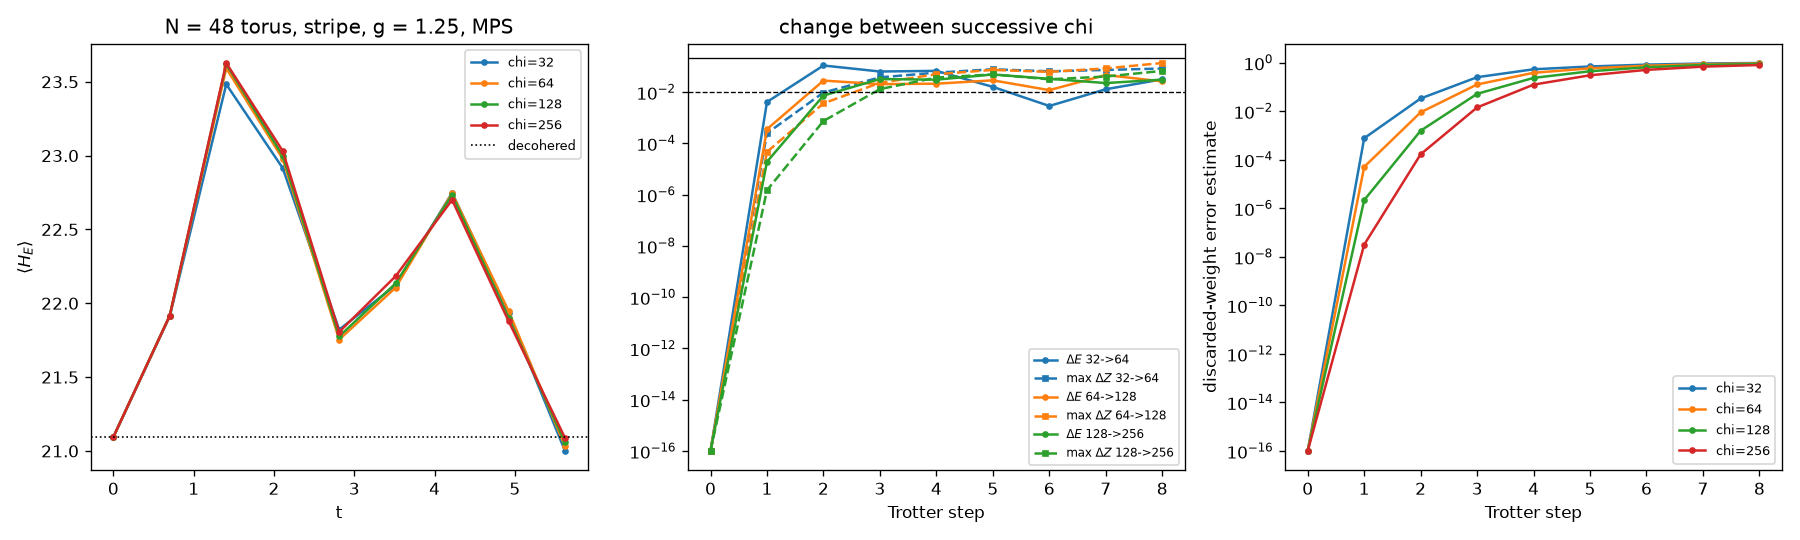
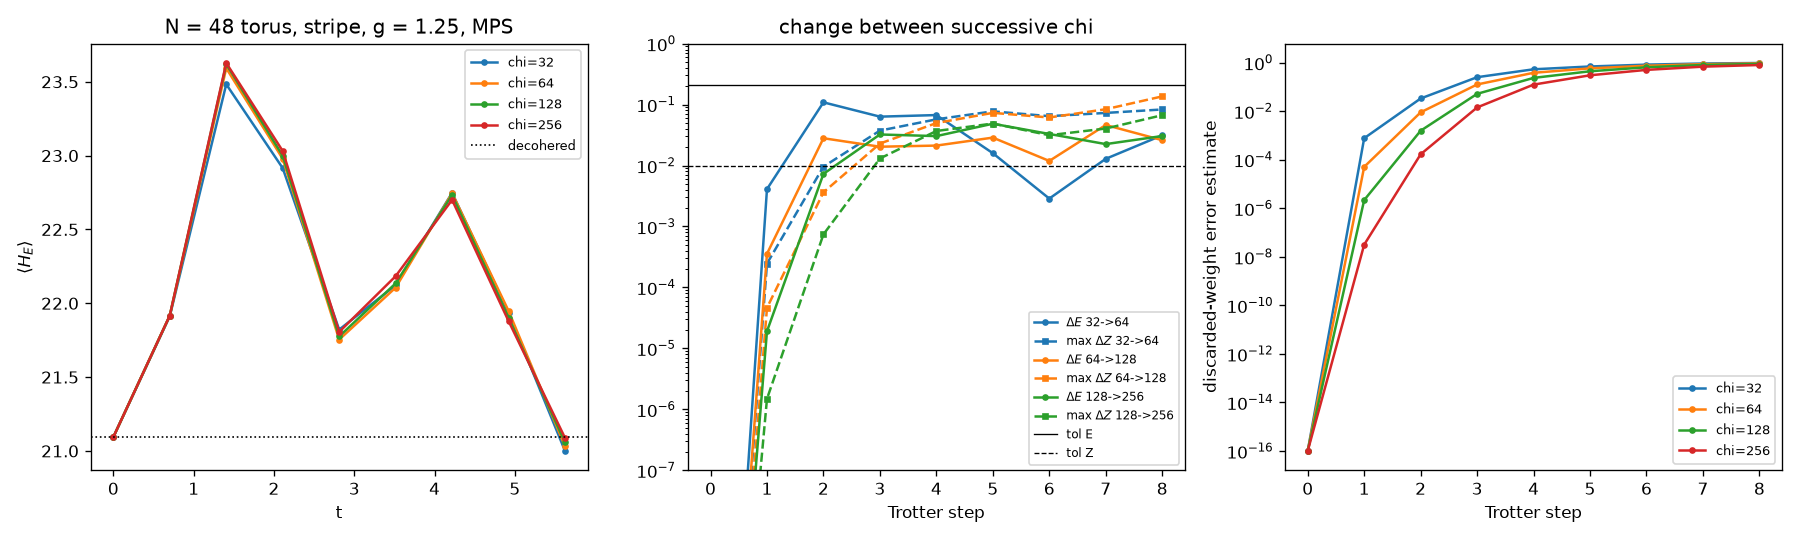
m6: audit fixes (headline qualification, cumulative error, energy-insensitivity reason, Trotter-step caveat), figure/README/requirements fixes
Claude-Session: https://claude.ai/code/session_01WNRUSz9Srb79BhE5qqbAtg

diff --git a/scripts/make_figures.py b/scripts/make_figures.py
@@ -111,8 +111,9 @@ def fig4():
                                           1e-16), "o-", ms=3, label=rf"$\Delta E$ {a}->{b}")
         axs[1].semilogy(steps, np.maximum([s["d_z_max"][i] for s in conv["steps"]], 1e-16),
                         "s--", ms=3, color=f"C{i}", label=rf"max $\Delta Z$ {a}->{b}")
-    axs[1].axhline(conv["tol_electric_energy"], color="k", ls="-", lw=0.8)
-    axs[1].axhline(conv["tol_z"], color="k", ls="--", lw=0.8)
+    axs[1].axhline(conv["tol_electric_energy"], color="k", ls="-", lw=0.8, label="tol E")
+    axs[1].axhline(conv["tol_z"], color="k", ls="--", lw=0.8, label="tol Z")
+    axs[1].set_ylim(1e-7, 1)
     axs[1].set_xlabel("Trotter step"); axs[1].set_title("change between successive chi")
     axs[1].legend(fontsize=7)
     axs[2].set_xlabel("Trotter step"); axs[2].set_ylabel("discarded-weight error estimate")
@@ -124,13 +125,13 @@ def fig4():
 
 def fig5():
     items = load("results/m6/roadmap.json")["items"]
-    fig, ax = plt.subplots(figsize=(12, 1.2 + 1.3 * len(items)))
+    fig, ax = plt.subplots(figsize=(13, 1.2 + 1.6 * len(items)))
     ax.axis("off")
     for k, it in enumerate(items):
         y = 1 - (k + 0.5) / len(items)
-        ax.text(0.0, y, it["title"], fontsize=11, weight="bold", va="center")
+        ax.text(0.0, y, "\n".join(textwrap.wrap(it["title"], 30)), fontsize=10, weight="bold", va="center")
         ax.text(0.27, y, "N = " + ", ".join(map(str, it["N"])), fontsize=10, va="center")
-        ax.text(0.40, y, "\n".join(textwrap.wrap(it["purpose"], 85)), fontsize=8.5, va="center")
+        ax.text(0.40, y, "\n".join(textwrap.wrap(it["purpose"], 75)), fontsize=8, va="center")
     ax.set_title("What remains for the GPU cluster and for hardware", fontsize=13)
     fig.tight_layout()
     fig.savefig(OUT / "fig5_cluster_roadmap.png", dpi=120)

diff --git a/reports/audits/m6_audit.md b/reports/audits/m6_audit.md
@@ -1,0 +1,74 @@
+# M6 gate audit (final cloud milestone, before tag `v0.1-pre-cluster`)
+
+Reviewer: independent `reviewer` subagent. I did not modify any implementation file.
+
+## Verdict: PASS-WITH-FIXES
+
+The data, the scripts and the tests are sound. Three statements in `reports/collaborator_summary.md` are not supported by the data, or leave out a caveat that changes the team decision. All three need text edits only, with no reruns. Fix them before the tag.
+
+## Checks run
+| check | result |
+|---|---|
+| `python3 -m pytest -q` | 167 passed (exit 0) |
+| `python3 tools/check_lock.py` | LOCK OK |
+| `scripts/check_summary.py` | 20 markers, 0 failures |
+| `scripts/analyze_convergence.py --out <scratch>` | byte-identical to `results/m6/convergence.json` |
+| $\delta t$ | $2\cdot0.703125/1.25^2=0.900$ ✓ (PLAN M6) |
+| decohered $H_E$ | $\tfrac{3g^2}{16}\cdot\tfrac{3N}{2}=21.094$; stripe step 0 = 21.094 ✓ ($\beta=0$) |
+| gate count | 456 = 9.5·48 ✓ |
+| ZNE improvement (M4 JSON) | 10.14, 15.48, 6.78, 5.80 → "5.8–15.5×" ✓ |
+| per-run cap | the χ=256 run took 6935 s < 7200 s ✓ (only just) |
+| prior audit B1–B3 (`reports/m3_physics.md`) | B1 fixed (:54–62, full table and coupling-dependent wording); B2 fixed (:66, 77/41/27%, N=24 42%); B3 fixed (:51, :63, ±0.04 in β, ±0.2 in $H_E$). Residual in `project_report.md`, see N10. |
+
+### Convergence data (χ=128→256 pair; recomputed from `n48_stripe_g1.25.json`)
+| step | t | max\|ΔZ\| | mean\|ΔZ\| | #plaq >0.01 | ΔE | χ=256 1−F (cumulative) | retained fraction this step F_k/F_{k−1} |
+|---|---|---|---|---|---|---|---|
+| 2 | 1.41 | 0.0007 | 0.0002 | 0 | 0.007 | 0.0002 | 0.9998 |
+| 3 | 2.11 | 0.013 | 0.004 | 4/48 | 0.032 | 0.014 | 0.986 |
+| 4 | 2.81 | 0.037 | 0.015 | 32/48 | 0.030 | 0.124 | 0.889 |
+| 5 | 3.52 | 0.049 | 0.017 | 35/48 | 0.049 | 0.300 | 0.799 |
+| 6 | 4.22 | 0.031 | 0.013 | 31/48 | 0.033 | 0.501 | 0.713 |
+| 8 | 5.63 | 0.067 | 0.015 | 33/48 | 0.030 | 0.795 | 0.640 |
+
+How max|ΔZ| at step 3 changes as χ doubles: 0.037 → 0.023 → 0.013, roughly halving each time. A χ=512 run would probably converge at step 3. At step 4 it goes 0.057 → 0.050 → 0.037, so convergence is slow. The ⟨H_E⟩ criterion is met at **all 8 steps for all pairs** (`last_converged_step_electric_energy = [8,8,8]`).
+
+**Is "MPS fails after 2–3 steps at χ ≤ 256" justified?** Yes, with a qualification. The claim rests on the chi-to-chi comparison of local $Z_p$, not on the cumulative error estimate, so the cumulative nature of the estimate does not bias it. Requiring agreement at all steps up to K (the prefix rule) is the right choice, because truncation errors propagate forward. The per-step retained fraction gives an independent confirmation: it drops below 0.99 at step 3 and to about 0.64 per step by steps 7–8, so the onset is real. The precise statement is: converged through step 2 ($t=1.41$), marginal at step 3 (4 of 48 plaquettes exceed the tolerance, by at most 0.003), and clearly unconverged from step 4.
+
+## BLOCKING findings (text-only fixes)
+
+**B1 `reports/collaborator_summary.md:67`: the explanation of why the energy is insensitive is wrong.** The summary says "⟨H_E⟩ stays near the decohered value (≈21.09), because this state starts at β=0". In the data, ⟨H_E⟩ swings from 21.0 to 23.63, up to 12% away from 21.09, while the χ=128/256 difference never exceeds 0.049. Truncation does not pull ⟨H_E⟩ toward the β=0 value. The real reason is that ⟨H_E⟩ is a sum over 72 bonds, so its tolerance of 0.211 amounts to a *mean* per-bond tolerance of about 0.01, whereas the $Z_p$ test is a *maximum* over 48 sites. Mean |ΔZ| for 128→256 also stays ≤ 0.017. Fix: "⟨H_E⟩ agrees between successive χ to within the 1% tolerance at all 8 steps (max difference 0.049), even though it swings by up to 2.5 around 21.09. It is a sum over 72 bonds, so local errors average out. The maximum over the 48 local magnetizations is the sensitive probe." Also state the fact `last_converged_step_electric_energy = [8,8,8]` with a marker.
+
+**B2 `reports/collaborator_summary.md:66`: the cumulative error estimate is over-read.** "error estimate 0.79, so most of the state's weight has been truncated away" presents the estimate as a direct measure of accuracy. It is actually $1-\prod_i(1-w_i)$ over every truncation since $t=0$ (`su2torus/mps.py:146`, quimb `fidelity_estimate`), i.e. a heuristic *global* infidelity. For 48 qubits, global fidelity falls roughly exponentially with N even when local observables are still accurate. Fix: "By step 8 the estimated overlap of the χ=256 state with the untruncated Trotter state is 0.21. This estimate is cumulative; per step, the fraction of weight kept falls from 0.986 (step 3) to about 0.64 (steps 7–8). Local observables degrade more slowly (mean |ΔZ| ≈ 0.015), but they are not converged." Also replace "fails after 2–3 Trotter steps" (:69) with "is converged through step 2, marginal at step 3, and unconverged from step 4. The step-3 differences halve with each doubling of χ, so χ≈512 may recover step 3."
+
+**B3 `reports/collaborator_summary.md:79,82` (§7 item 4 and the "Decision"): the Trotter step size is not taken into account.** At $2\delta t/g^2=0.9$ the first-order circuit is a coarse periodic (Floquet) drive. It does not conserve $H$, so a thermal anchor of $H$ at $\beta\approx1.44$ (the QMC item) is not the late-time reference *for this circuit*. Independent check in this audit (`split_sparse` + `expm_multiply`, $g=1.25$, $\delta t=0.703$, vacuum, steps 1–10):
+- N=12: Trotter ⟨H_E⟩/E_∞ against exact: step 2 0.92 vs 0.75, step 3 0.56 vs 0.38, step 8 0.54 vs 0.31. The drift of ⟨H⟩ is +0.7 to +3.1 (E_∞ = 5.27).
+- N=16: the same pattern (step 8: 0.54 vs 0.32).
+- The stripe ($\beta=0$) is barely affected.
+
+The recommended vacuum target is therefore strongly affected by Trotter error at this δt. Fix: add to §8 and to roadmap item 4: "At $2\delta t/g^2=0.9$ the circuit deviates strongly from continuous-time dynamics from the vacuum (N=12: up to 23% of the decohered ⟨H_E⟩). A thermal anchor of $H$ applies only at smaller δt or second order. For the coarse circuit, the classical reference must simulate the same circuit (MPS/PEPS/Pauli propagation). Decide the δt for the physics comparison before QMC time is spent."
+
+## NON-BLOCKING findings
+
+- **N1 `collaborator_summary.md:68`**: "6935 s on 4 cloud vCPUs". The runs used `OPENBLAS_NUM_THREADS=1` and overlapped the M3 numba batch (the M6 log runs 04:22–06:43 and `logs/m3.log` ends at 05:28). Timings are therefore single-threaded with contention, not a clean benchmark. Say so, because it affects the χ=512+ extrapolation (the observed ratios 3.5/4.5/5.8× per doubling are approaching χ³ = 8×).
+- **N2 `collaborator_summary.md:55`**: "With mitigation, 4–6 steps at N = 48–64 are realistic". The raw F at N=64, 6 steps, $p_2=10^{-3}$ is $e^{-3.65}=0.026$, and at N=48, 4 steps it is 0.161. ZNE was validated only down to F≈0.33 at N=12 (M4). State the validated range, or write "plausible, untested below F≈0.33".
+- **N3 `collaborator_summary.md:28`**: "relaxes toward a thermal state" omits the fact (from `m3_physics.md:62`) that at N=24 the late-time mean is still 13%±4% below the anchor and fig. 1 shows undamped oscillations to $t=4g^2$. Add one clause.
+- **N4 unmarked data numbers**: 1140 (:38, `noise_runs.json configs/steps=10/n_2q`), ≈21.09 (:67, `convergence.json steps/0/electric_energy/0`), 0.703 (:62, `config/dt`), and the derived values 5.8–15.5× (:48), ±0.04 (:28, from an audit re-run not stored in any JSON) and 2.3× (:86). Add markers where possible. Store the typicality spread in `results/m3/summary.json` or cite its source.
+- **N5 fig 4 (`scripts/make_figures.py:110-118`)**: the tolerance lines (:114–115) have no legend entries. Add `label="tol E (1%)"` and `label="tol Z (0.01)"`. Step-0 zeros are floored to 1e-16, which squeezes the informative range 1e-4…1 into the top quarter of the plot: use `set_ylim(1e-5, 1)` or start at step 1. Change the right panel's ylabel to "cumulative 1 − fidelity estimate".
+- **N6 fig 3**: the N=96/p₂=10⁻³ and N=64/p₂=1.5×10⁻³ curves coincide exactly (same $p_2N$), which hides the green dotted line. Mention this in the caption.
+- **N7 fig 5**: the bold titles "PEPS with belief-propagation gauging" and "Pauli propagation of local observables" overlap the "N = …" column. Move the column right (x ≈ 0.31) or wrap the titles.
+- **N8 README reproducibility**:
+  - (a) `logs/` is git-ignored, so on a fresh clone `nohup scripts/run_m3_batch.sh > logs/m3.log` (README:27) fails. Add `mkdir -p logs`.
+  - (b) `numba` is missing from `requirements.txt`, although the M3 N=24 timing (~4 h) depends on it (the fallback in `hamiltonian.py:19-22` is silent).
+  - (c) No versions are pinned. The tested set is qiskit 2.5.2, qiskit-aer 0.17.2, quimb 1.15.0, numba 0.68.0. Pin them or list them.
+  - (d) README:31 should note that the ~2.3 h is the total over four χ runs and that χ=256 alone is ~1.9 h.
+- **N9 fig 1**: correct and readable. At N=24 the stripe and Néel-half thermal lines are hidden under the decohered line ($\beta=0$). Say so in the caption.
+- **N10 `reports/project_report.md`** (linked from README:5 as the "Full report") is stale:
+  - :249 says "runs finished so far … pending";
+  - :688 says the typicality uncertainty is "not quantified";
+  - :700 says "Running now";
+  - :253 and :478 quote β = 1.44008 / 1.440075 with no error bar (residual of the previous B3).
+
+  Either update it or mark it as a historical build log in the README.
+
+## Data-to-claim check (summary §3–§7)
+All 20 marked numbers match the JSON. Fig. 2 and the ZNE ranges match. The claim "global-fidelity rescaling over-corrects" is supported (echo-rescaled error > raw error in all four configurations). The stoquasticity claim is correct, since off-diagonal elements are $-\tfrac1{g^2}\prod c\le0$. Figures (i)–(v) are referenced, and their data files exist.

diff --git a/reports/collaborator_summary.md b/reports/collaborator_summary.md
@@ -52,7 +52,7 @@ ZNE reduces the error 5.8–15.5× in all four configurations. Rescaling by the 
 
 Figure (iii): estimated raw circuit fidelity $e^{-p_2N_{2q}}$ versus number of first-order steps, for N = 48, 56, 64, 96 and $p_2\in\{7.9\times10^{-4},10^{-3},1.5\times10^{-3}\}$. Data: `results/m5/resources.json`.
 
-At N = 48 a first-order step needs <!--num:results/m5/resources.json#tori/N=48/per_step/native_zz-->456 native-$ZZ$ two-qubit gates. With $p_2=10^{-3}$ the raw fidelity is <!--num:results/m5/resources.json#rows/N=48,steps=4,gate_set=native_zz,p2=0.001/raw_fidelity-->0.161 after 4 steps and <!--num:results/m5/resources.json#rows/N=48,steps=10,gate_set=native_zz,p2=0.001/raw_fidelity-->0.0105 after 10. With mitigation, 4–6 steps at N = 48–64 are realistic on hardware with $p_2\lesssim10^{-3}$. N = 96 at 10 steps is not (raw fidelity <!--num:results/m5/resources.json#rows/N=96,steps=10,gate_set=native_zz,p2=0.0015/raw_fidelity-->1.15e-6 at $p_2=1.5\times10^{-3}$).
+At N = 48 a first-order step needs <!--num:results/m5/resources.json#tori/N=48/per_step/native_zz-->456 native-$ZZ$ two-qubit gates. With $p_2=10^{-3}$ the raw fidelity is <!--num:results/m5/resources.json#rows/N=48,steps=4,gate_set=native_zz,p2=0.001/raw_fidelity-->0.161 after 4 steps and <!--num:results/m5/resources.json#rows/N=48,steps=10,gate_set=native_zz,p2=0.001/raw_fidelity-->0.0105 after 10. ZNE was validated here down to $F\approx0.33$; that makes about 4 steps at N = 48 ($F\approx0.16$–$0.24$ raw) a plausible but not yet validated hardware target with $p_2\lesssim10^{-3}$. N = 96 at 10 steps is not (raw fidelity <!--num:results/m5/resources.json#rows/N=96,steps=10,gate_set=native_zz,p2=0.0015/raw_fidelity-->1.15e-6 at $p_2=1.5\times10^{-3}$).
 
 The MPS code reproduces the exact Trotter state at N = 24 with bond dimension 256 to fidelity <!--num:results/m5/mps_check.json#runs/N=24/fidelity-->0.999999999 (4 steps, $\delta t=0.2$).
 
@@ -62,10 +62,12 @@ The MPS code reproduces the exact Trotter state at N = 24 with bond dimension 25
 Figure (iv): N = 48 ($4\times6$) torus, stripe state, $g=1.25$, $\delta t=0.703$ ($2\delta t/g^2=0.9$), 8 first-order steps at $\chi=32,64,128,256$. Left: $\langle H_E\rangle(t)$. Middle: change between successive $\chi$, against the tolerances. Right: the discarded-weight error estimate. Data: `results/m6/convergence.json` and `results/m6/n48_stripe_g1.25.json`.
 
 - **Criterion.** At each step, successive bond dimensions must agree in $\langle H_E\rangle$ to 1% of the decohered value (<!--num:results/m6/convergence.json#tol_electric_energy-->0.211) and in every $\langle Z_p\rangle$ to 0.01.
-- **Headline.** $\chi=256$ agrees with $\chi=128$ only up to step <!--num:results/m6/convergence.json#last_converged_step/2-->2, i.e. $t=$ <!--num:results/m6/convergence.json#steps/2/time-->1.41. At step 3 the plaquette magnetizations of $\chi=128$ and $256$ already differ by <!--num:results/m6/convergence.json#steps/3/d_z_max/2-->0.013.
-- **Truncation error.** By step 8 the $\chi=256$ error estimate is <!--num:results/m6/convergence.json#steps/8/error_estimate/3-->0.79, so most of the state's weight has been truncated away.
-- **Why the energy alone is misleading.** $\langle H_E\rangle$ itself stays near the decohered value ($\approx21.09$), because this state starts at $\beta=0$ (§3). Local magnetizations are the sensitive probe.
-- **Cost.** The $\chi=256$ run took <!--num:results/m6/n48_stripe_g1.25.json#runs/chi=256/wall_time_s-->6935 s on 4 cloud vCPUs, close to the cloud limit.
+- **Headline.** $\chi=256$ agrees with $\chi=128$ through step <!--num:results/m6/convergence.json#last_converged_step/2-->2, i.e. $t=$ <!--num:results/m6/convergence.json#steps/2/time-->1.41.
+  - Step 3 is marginal: the largest plaquette-magnetization difference is <!--num:results/m6/convergence.json#steps/3/d_z_max/2-->0.013, with 4 of 48 plaquettes over the 0.01 tolerance, and the gap roughly halves with each doubling of $\chi$.
+  - From step 4 on, the results are clearly unconverged.
+- **Truncation error.** The error estimate is cumulative, $1-\prod_k(1-w_k)$ over all truncations. By step 8 it is <!--num:results/m6/convergence.json#steps/8/error_estimate/3-->0.79 for $\chi=256$, i.e. an estimated overlap of only about 0.21 with the untruncated state. The weight kept per Trotter step falls from 0.986 at step 3 to about 0.64 at steps 7–8.
+- **Why the energy alone is misleading.** $\langle H_E\rangle$ varies between 21.0 and 23.6 during the run, yet successive $\chi$ agree on it to within 0.11 at every step (`last_converged_step_electric_energy` = <!--num:results/m6/convergence.json#last_converged_step_electric_energy/2-->8). It is a sum over 72 bonds, so its tolerance acts on an average, while the $Z$ test takes the maximum over plaquettes. Local magnetizations are the sensitive probe.
+- **Cost.** The $\chi=256$ run took <!--num:results/m6/n48_stripe_g1.25.json#runs/chi=256/wall_time_s-->6935 s with single-threaded linear algebra on a shared cloud machine, close to the 2 h cloud limit.
 - **What it means.** At these step sizes, exact-quality classical MPS simulation at N = 48 fails after 2–3 Trotter steps at $\chi\le256$. Larger $\chi$ (GPU) and 2D methods must show whether 4–8 steps are reachable classically. That decides the advantage claim.
 
 ## 7. What remains for the GPU cluster and hardware
@@ -76,7 +78,7 @@ Figure (v): remaining classical and hardware work with target sizes. Data: `resu
 1. **Large-$\chi$ MPS on GPU.** Use $\chi=1024$–$4096$ at N = 48–96 to push the convergence frontier of §6 (`configs/n96_stripe_g1.25_gpu.json`, `scripts/slurm/mps_gpu.sbatch`).
 2. **PEPS with belief-propagation gauging.** A 2D tensor network matched to the honeycomb geometry.
 3. **Pauli propagation** of local observables, which fails in a different way from MPS.
-4. **Sign-free quantum Monte Carlo** for the thermal anchor at N = 48–64. This is possible because $H$ is stoquastic, as verified in M1.
+4. **Sign-free quantum Monte Carlo** for the thermal anchor at N = 48–64. This is possible because $H$ is stoquastic, as verified in M1. **Caveat (M6 audit):** at $2\delta t/g^2=0.9$ the Trotter circuit departs strongly from continuous-time dynamics. In an exact N = 12/16 check from the vacuum, Trotter $\langle H_E\rangle/E_\infty$ was 0.54 against 0.31 exact at step 8, and $\langle H\rangle$ drifted by up to +3.1. A thermal anchor of $H$ is therefore the right reference only if $\delta t$ is reduced; settle $\delta t$ before spending on QMC.
 5. **Hardware runs** of 4–10 steps with echo and ZNE.
 
 **Decision for the team.** Use an initial state that is not at $\beta=0$, such as the vacuum or a state with an odd number of excited rows, for the physics comparison at N = 48–64.
@@ -85,6 +87,7 @@ Figure (v): remaining classical and hardware work with target sizes. Data: `resu
 - **Noise model.** Depolarizing and Markovian only; no coherent errors or crosstalk.
 - **ZNE statistics.** ZNE was evaluated with exact (infinite-shot) values; on hardware it amplifies shot noise by about 2.3×.
 - **Open-lattice $H_E$ form.** METHODS writes two forms of $H_E$ as equal, but they agree only when every plaquette has three neighbours. The code uses the bond form, which matters only on open lattices.
+- **Large Trotter step.** $2\delta t/g^2=0.9$ (M4, M6) makes the circuit a Floquet-like evolution that differs strongly from $e^{-iHt}$. Comparisons with thermal anchors of $H$ are therefore approximate at this $\delta t$.
 - **Thermal anchors at N = 24** use quantum typicality with 4 random vectors and a Chebyshev $e^{-\beta H/2}$ instead of `expm_multiply`, for speed. A unit test shows they agree.
 
 ## Glossary

diff --git a/README.md b/README.md
@@ -23,6 +23,7 @@ Tested on 4 vCPUs and 16 GB. Times are wall-clock.
 
 ```bash
 python3 -m pip install -r requirements.txt
+mkdir -p logs
 python3 scripts/gate_counts.py                 # M2 -> results/m2/gate_counts.json (seconds)
 nohup scripts/run_m3_batch.sh > logs/m3.log 2>&1 &   # M3: run_m3 n12 / string / n24 x6 / assemble -> results/m3 (~4 h)
 python3 scripts/run_m4.py                      # M4 -> results/m4/noise_runs.json + figure (~1.5 h)
